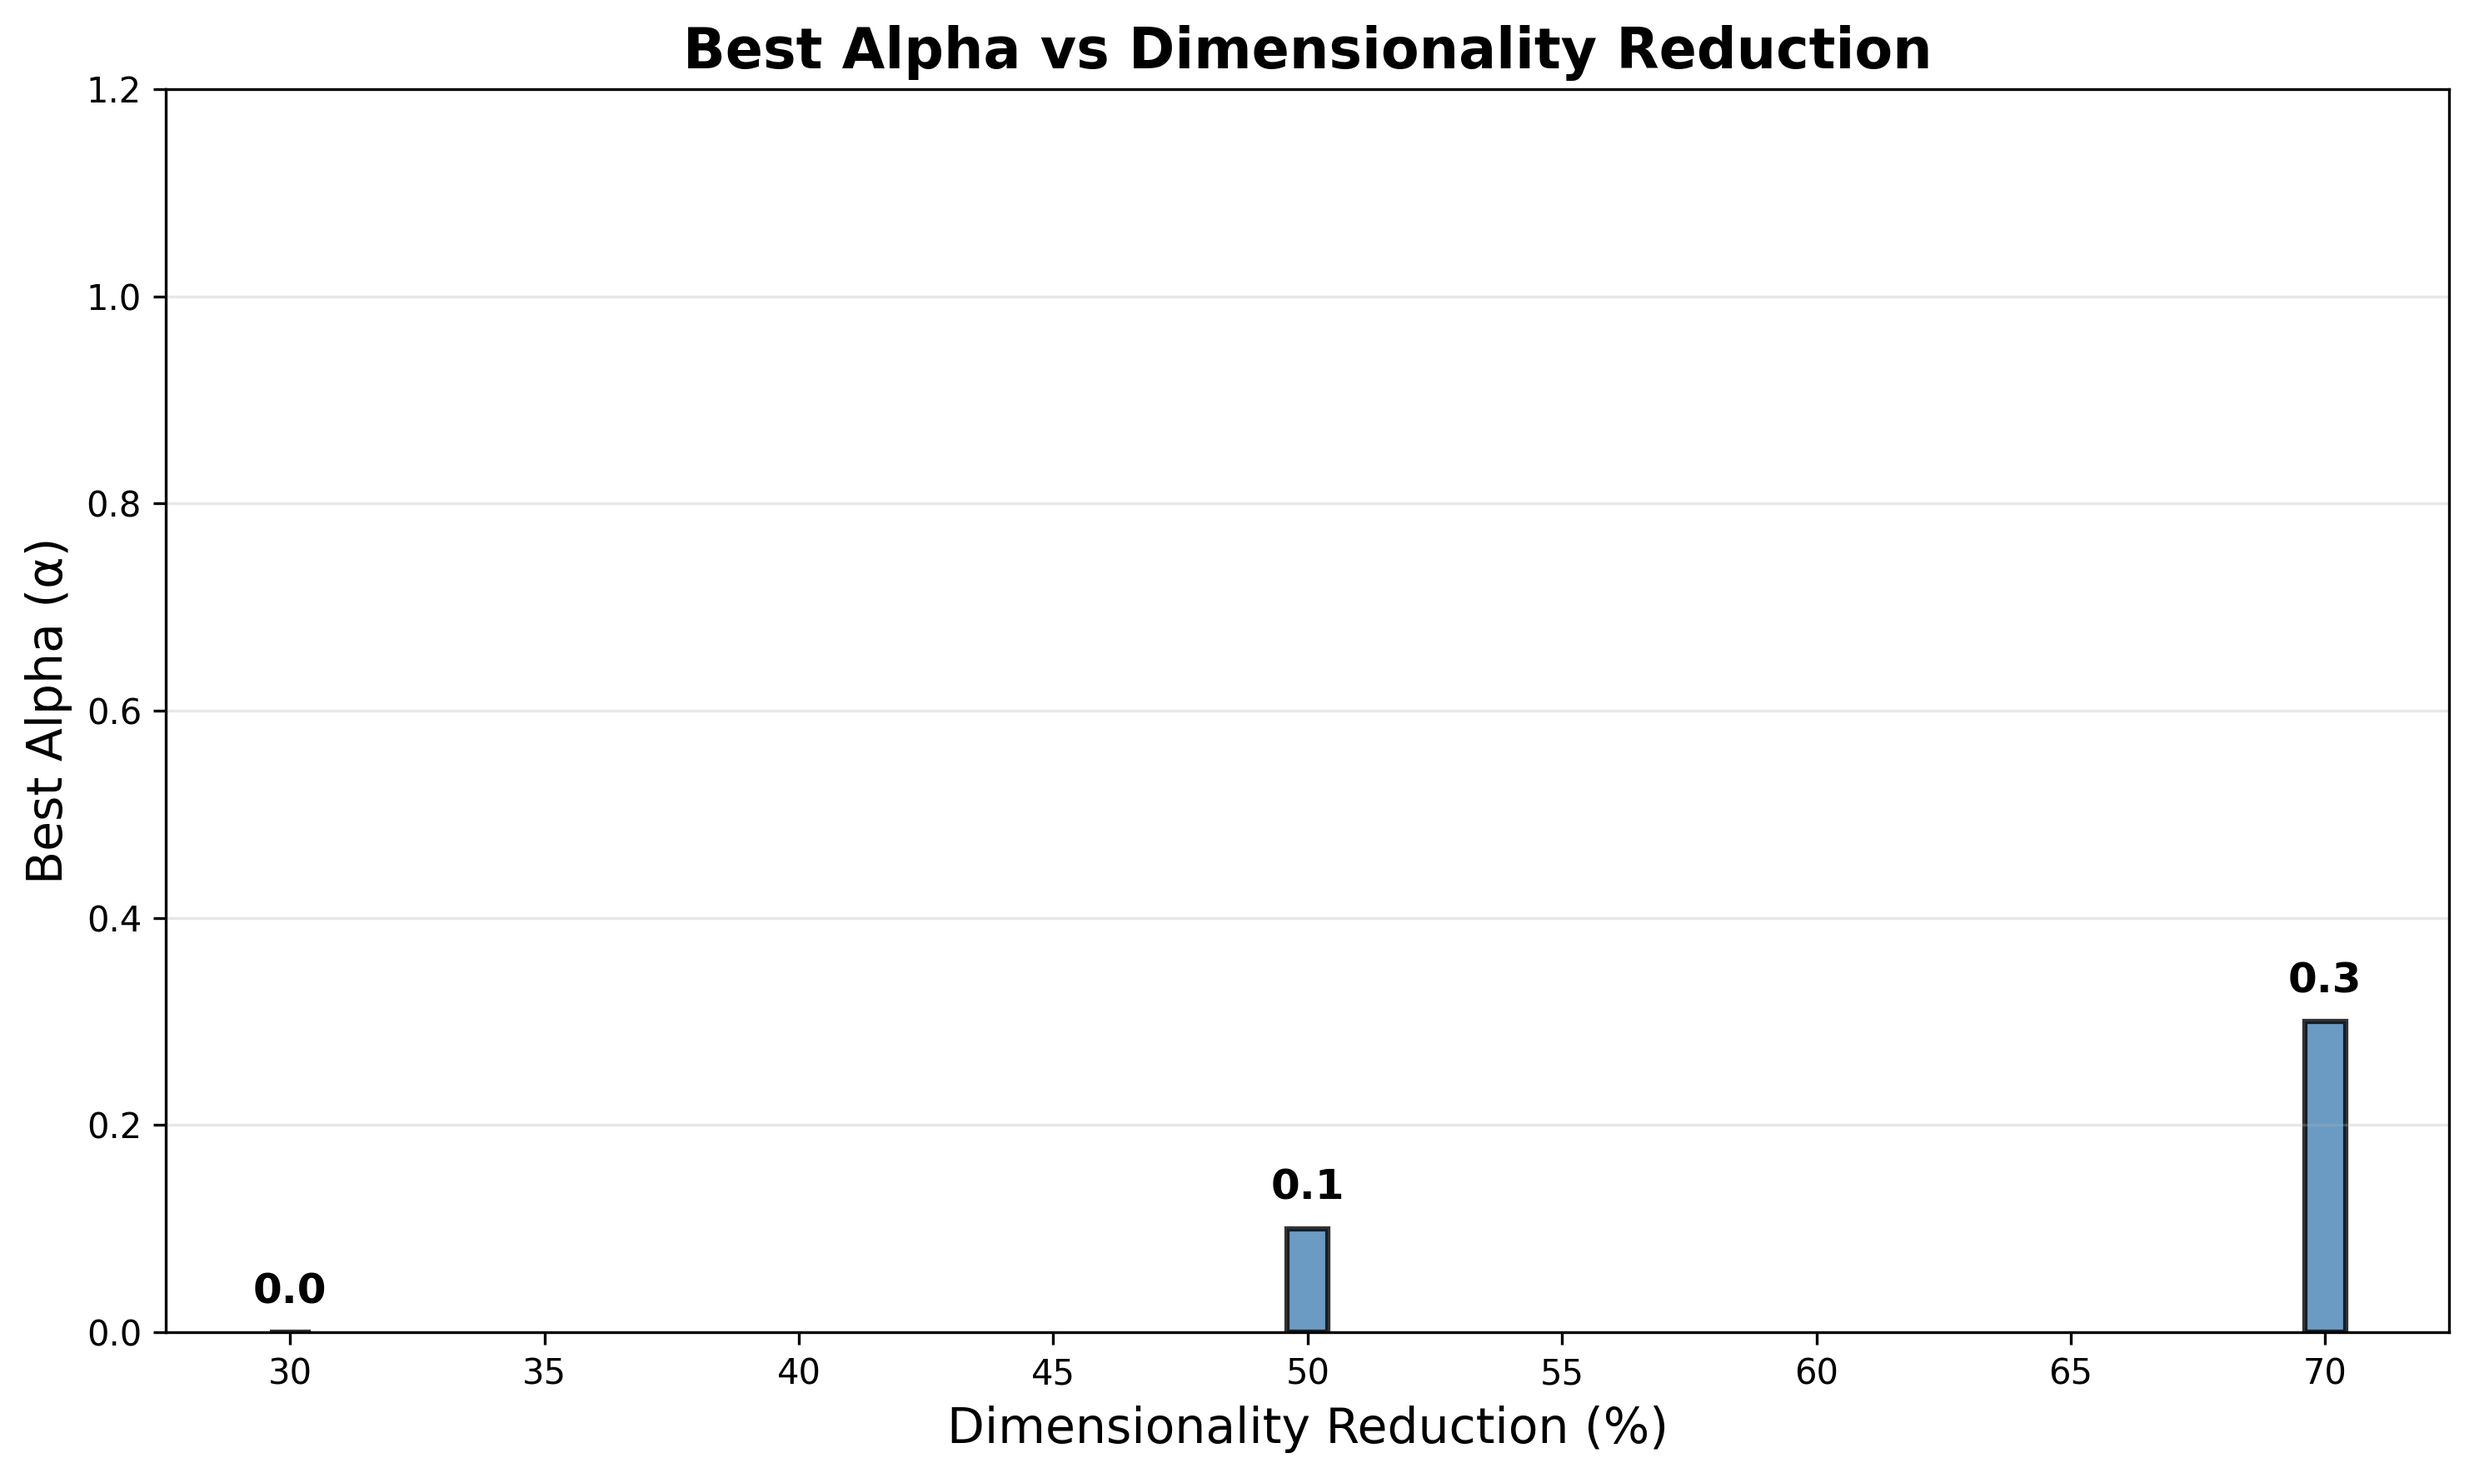
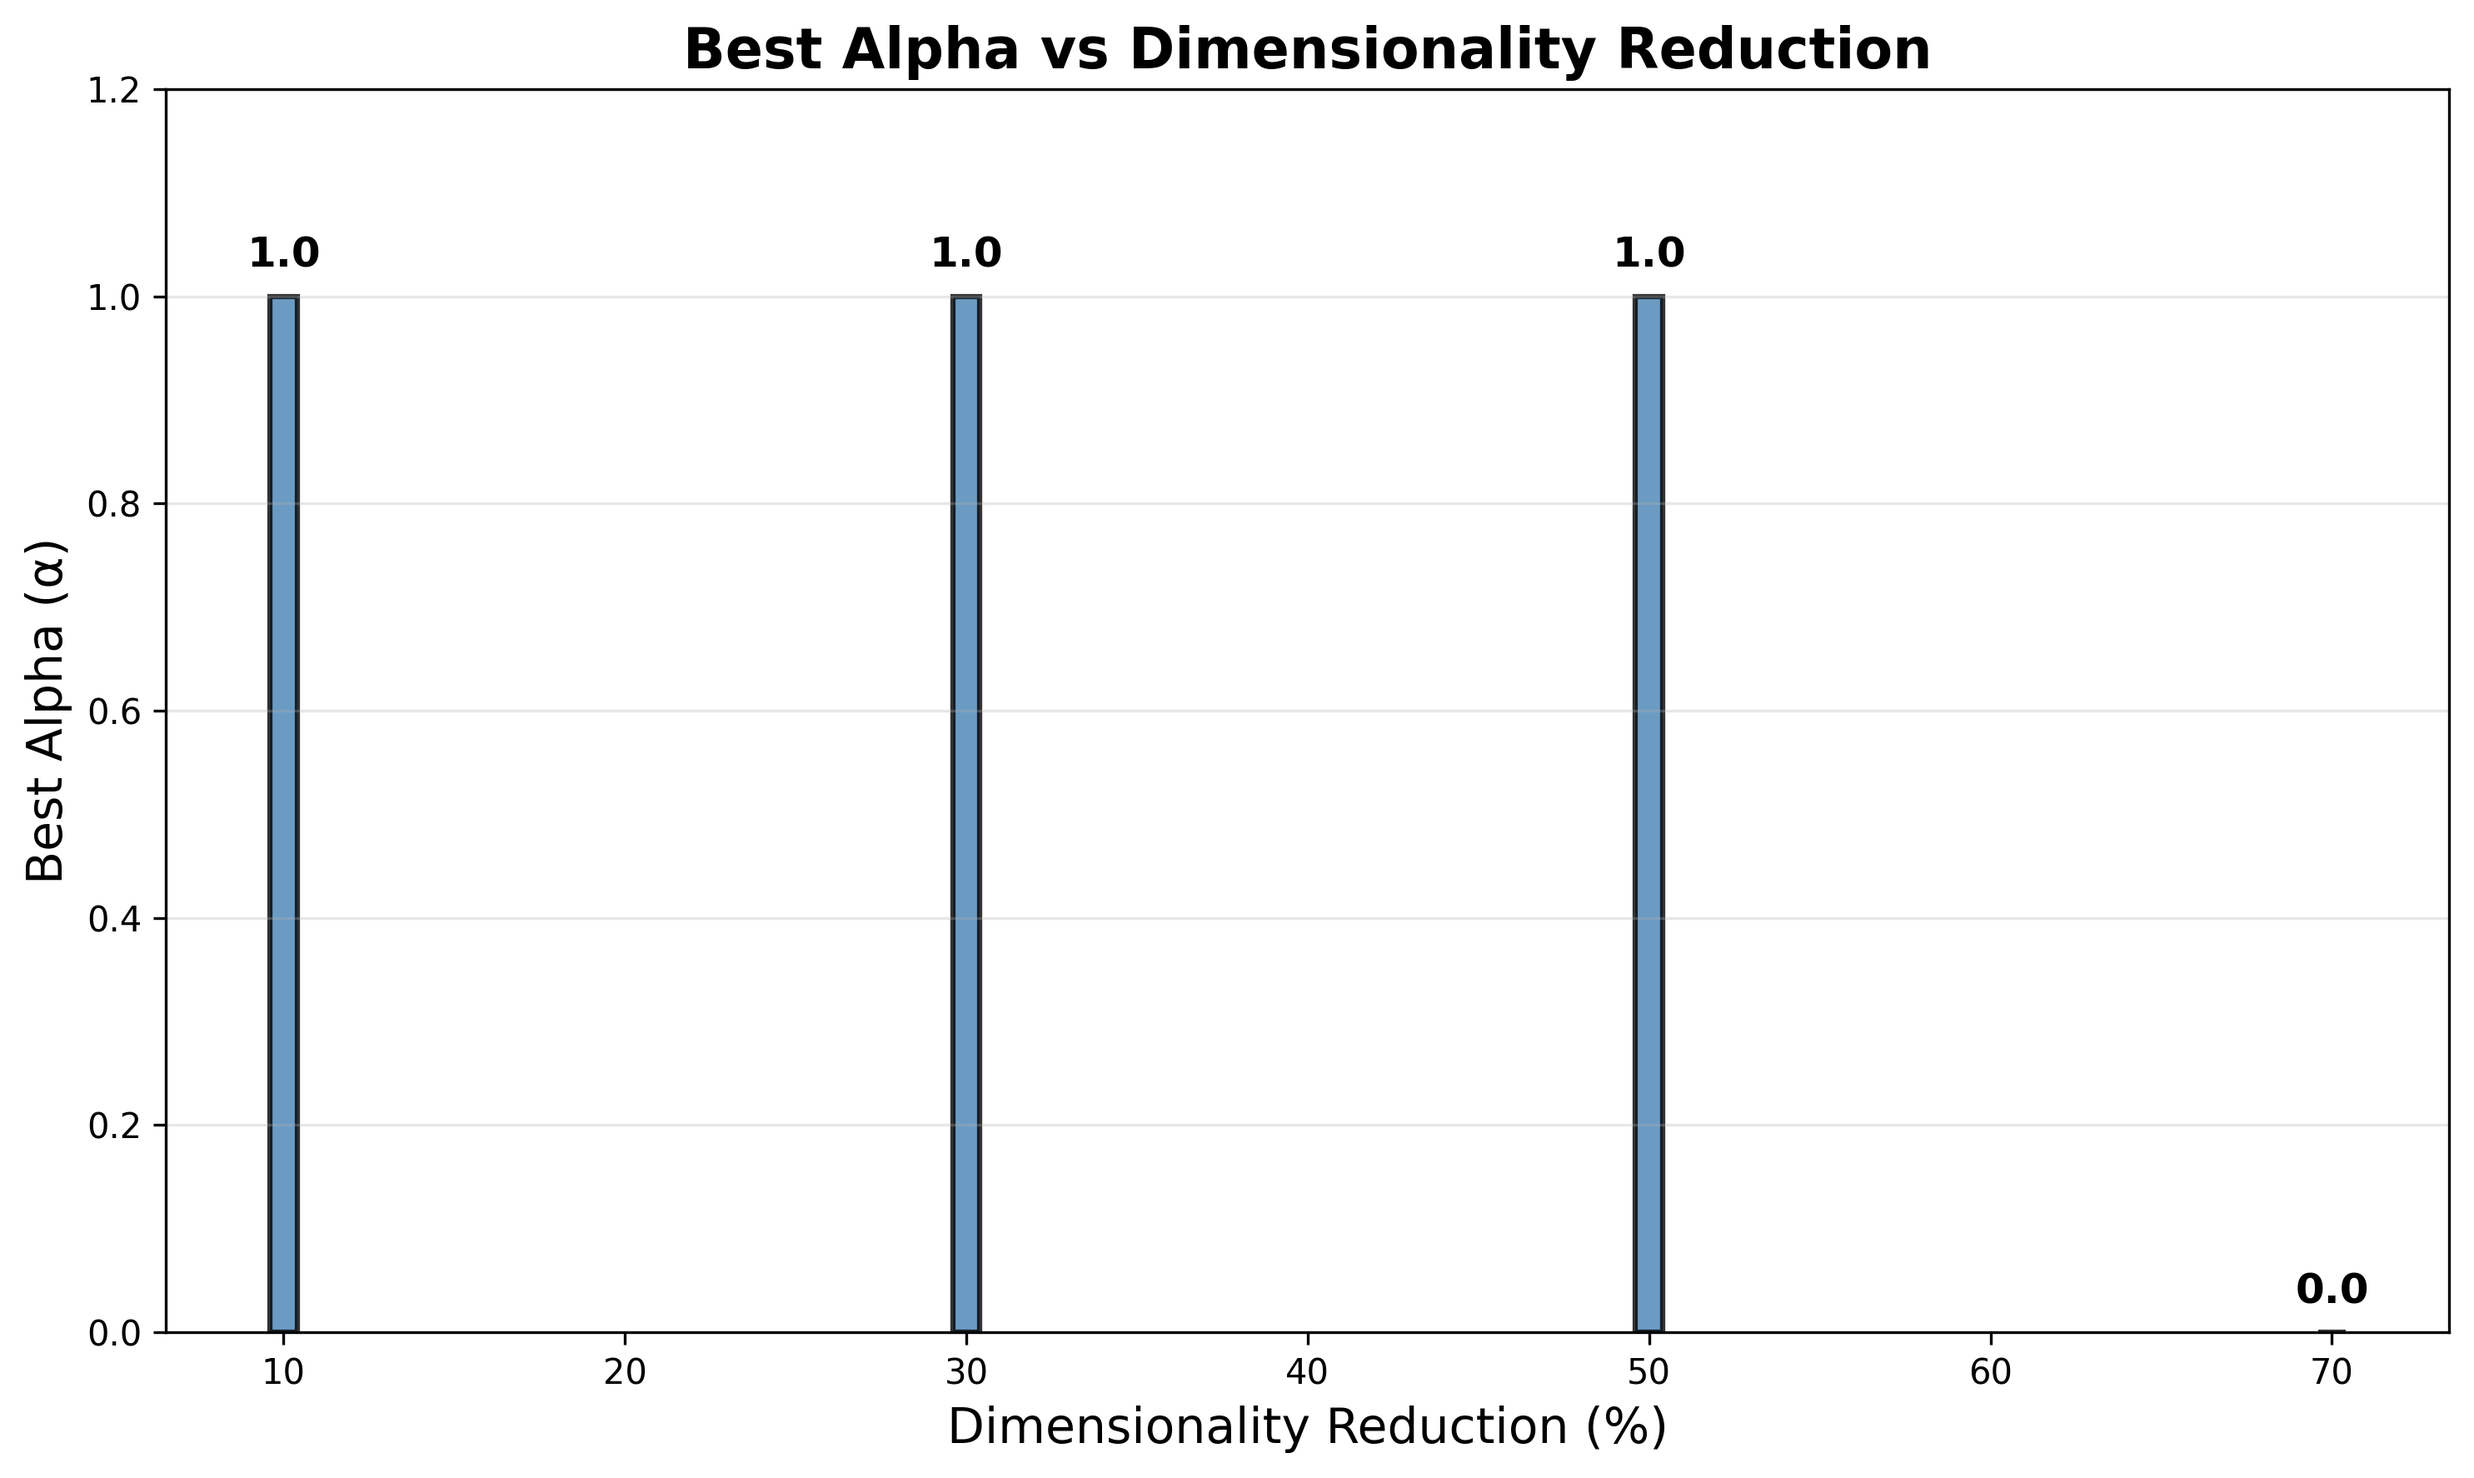
sampled the datsets

diff --git a/alpha2.py b/alpha2.py
@@ -7,8 +7,16 @@ import os
 # ============================================
 # CONFIGURATION
 # ============================================
-DATASET_PATH = "loan.csv"
+DATASET_PATH = input("Enter dataset path (default: mnist_train.csv): ").strip()
+if not DATASET_PATH:
+    DATASET_PATH = "datasets/mnist_train.csv"
+
 TARGET_COLUMN = input("Enter target column name to remove (or press Enter to skip): ").strip()
+
+# NEW: Ask user for number of samples to use
+print("\n--- Sample Selection ---")
+full_dataset_info = input("Do you want to use a subset of samples? (y/n): ").strip().lower()
+
 REDUCTION_PERCENTAGES = [70, 50, 30, 10]
 ALPHA_VALUES = np.arange(0.0, 1.1, 0.1)
 RANDOM_STATE = 42
@@ -24,9 +32,29 @@ if TARGET_COLUMN and TARGET_COLUMN in df.columns:
     df = df.drop(columns=[TARGET_COLUMN])
 
 numeric_df = df.select_dtypes(include=[np.number])
+
+
+# NEW: Sample selection logic
+print(f"\nFull dataset shape: {numeric_df.shape}")
+print(f"Total samples available: {numeric_df.shape[0]}, Features: {numeric_df.shape[1]}")
+
+if full_dataset_info == 'y':
+    n_samples_to_use = int(input(f"Enter number of samples to use (max {numeric_df.shape[0]}): ").strip())
+    if n_samples_to_use > numeric_df.shape[0]:
+        print(f"Warning: Requested {n_samples_to_use} samples but only {numeric_df.shape[0]} available. Using all samples.")
+        n_samples_to_use = numeric_df.shape[0]
+    
+    # Randomly sample n_samples_to_use rows
+    np.random.seed(RANDOM_STATE)
+    sampled_indices = np.random.choice(numeric_df.shape[0], size=n_samples_to_use, replace=False)
+    numeric_df = numeric_df.iloc[sampled_indices].reset_index(drop=True)
+    print(f"\nUsing {n_samples_to_use} randomly sampled instances")
+else:
+    print("\nUsing all available samples")
+
 X = numeric_df.to_numpy()
 
-print(f"Dataset shape: {X.shape}")
+print(f"\nFinal dataset shape: {X.shape}")
 print(f"Samples: {X.shape[0]}, Features: {X.shape[1]}\n")
 
 n_samples, n_features = X.shape
@@ -55,6 +83,7 @@ def compute_distortion(X_original, X_projected, n_samples_dist=5000):
     # Sample random pairs of points
     n_pairs = min(n_samples_dist, n_samples * (n_samples - 1) // 2)
     
+    np.random.seed(RANDOM_STATE)  # For reproducibility
     for _ in range(n_pairs):
         i, j = np.random.choice(n_samples, 2, replace=False)
         
@@ -81,33 +110,42 @@ for reduction_percentage in REDUCTION_PERCENTAGES:
         continue
     
     print(f"\n{'='*60}")
-    print(f"REDUCTION: {reduction_percentage}% (k={k} dimensions)")
+    print(f"Reduction: {reduction_percentage}% | Reduced Dimension: {k}")
     print(f"{'='*60}")
+    print(f"{'Alpha':<8} {'NRP Distortion':<18} {'PMRP Distortion':<18} {'HRP Distortion':<18}")
+    print(f"{'-'*60}")
     
+    # OPTIMIZED: Calculate NRP and PMRP only ONCE per reduction
+    print("Calculating NRP projection...")
+    R_nrp = create_nrp_matrix(n_features, k, RANDOM_STATE)
+    X_nrp = X @ R_nrp
+    distortion_nrp = compute_distortion(X, X_nrp)
+    
+    print("Calculating PMRP projection...")
+    R_pmrp = create_pmrp_matrix(n_features, k, RANDOM_STATE)
+    X_pmrp = X @ R_pmrp
+    distortion_pmrp = compute_distortion(X, X_pmrp)
+    
+    print("Calculating HRP for all alpha values...\n")
+    
+    # Store distortions for plotting
     nrp_distortions = []
     pmrp_distortions = []
     hrp_distortions = []
     
+    # OPTIMIZED: Only calculate HRP for each alpha
     for alpha in ALPHA_VALUES:
-        # NRP
-        R_nrp = create_nrp_matrix(n_features, k, RANDOM_STATE)
-        X_nrp = X @ R_nrp
-        distortion_nrp = compute_distortion(X, X_nrp)
+        # NRP and PMRP distortions are constant across all alphas
         nrp_distortions.append(distortion_nrp)
-        
-        # PMRP
-        R_pmrp = create_pmrp_matrix(n_features, k, RANDOM_STATE)
-        X_pmrp = X @ R_pmrp
-        distortion_pmrp = compute_distortion(X, X_pmrp)
         pmrp_distortions.append(distortion_pmrp)
         
-        # HRP
+        # HRP - Calculate for each alpha value
         R_hrp = create_hrp_matrix(n_features, k, alpha, RANDOM_STATE)
         X_hrp = X @ R_hrp
         distortion_hrp = compute_distortion(X, X_hrp)
         hrp_distortions.append(distortion_hrp)
         
-        print(f"Alpha={alpha:.1f} | NRP={distortion_nrp:.6f} | PMRP={distortion_pmrp:.6f} | HRP={distortion_hrp:.6f}")
+        print(f"{alpha:<8.1f} {distortion_nrp:<18.8f} {distortion_pmrp:<18.8f} {distortion_hrp:<18.8f}")
     
     # Find best alpha for HRP
     min_idx = np.argmin(hrp_distortions)
@@ -117,8 +155,8 @@ for reduction_percentage in REDUCTION_PERCENTAGES:
     best_alphas[reduction_percentage] = best_alpha
     best_distortions[reduction_percentage] = min_distortion
     
-    print(f"\nBEST ALPHA for {reduction_percentage}% reduction: {best_alpha:.1f}")
-    print(f"MINIMUM DISTORTION: {min_distortion:.6f}\n")
+    print(f"\nBest Alpha for {reduction_percentage}% Reduction: {best_alpha:.1f}")
+    print(f"Minimum HRP Distortion: {min_distortion:.8f}\n")
     
     # Plot distortion vs alpha
     plt.figure(figsize=(10, 6))
@@ -133,20 +171,27 @@ for reduction_percentage in REDUCTION_PERCENTAGES:
     plt.legend(fontsize=12)
     plt.grid(True, alpha=0.3)
     plt.tight_layout()
-    plt.savefig(f'distortion_vs_alpha_{reduction_percentage}{DATASET_PATH}pct.png', dpi=300, bbox_inches='tight')
+    plt.savefig(f'distortion_vs_alpha_{reduction_percentage}pct.png', dpi=300, bbox_inches='tight')
     plt.show()
 
 # ============================================
-# FINAL SUMMARY BAR GRAPH
+# FINAL SUMMARY TABLE
 # ============================================
 print(f"\n{'='*60}")
 print("FINAL SUMMARY")
 print(f"{'='*60}")
+print(f"{'Reduction %':<15} {'Best Alpha':<15} {'Minimum Distortion':<20}")
+print(f"{'-'*60}")
 
 for reduction_percentage in REDUCTION_PERCENTAGES:
     if reduction_percentage in best_alphas:
-        print(f"Reduction: {reduction_percentage}% | Best Alpha: {best_alphas[reduction_percentage]:.1f} | Min Distortion: {best_distortions[reduction_percentage]:.6f}")
+        print(f"{reduction_percentage:<15} {best_alphas[reduction_percentage]:<15.1f} {best_distortions[reduction_percentage]:<20.8f}")
 
+print(f"{'='*60}")
+
+# ============================================
+# FINAL SUMMARY BAR GRAPH
+# ============================================
 reductions = list(best_alphas.keys())
 alphas = list(best_alphas.values())
 
